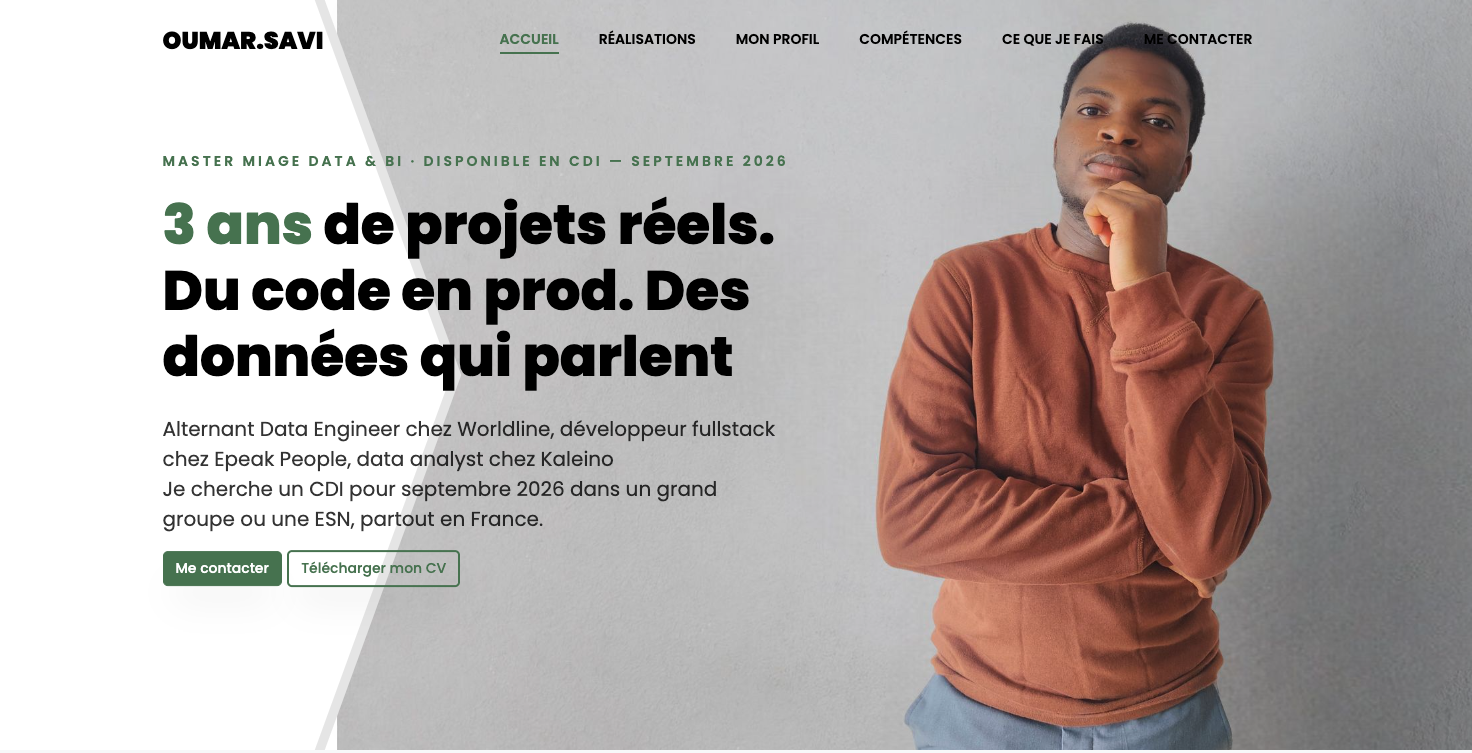
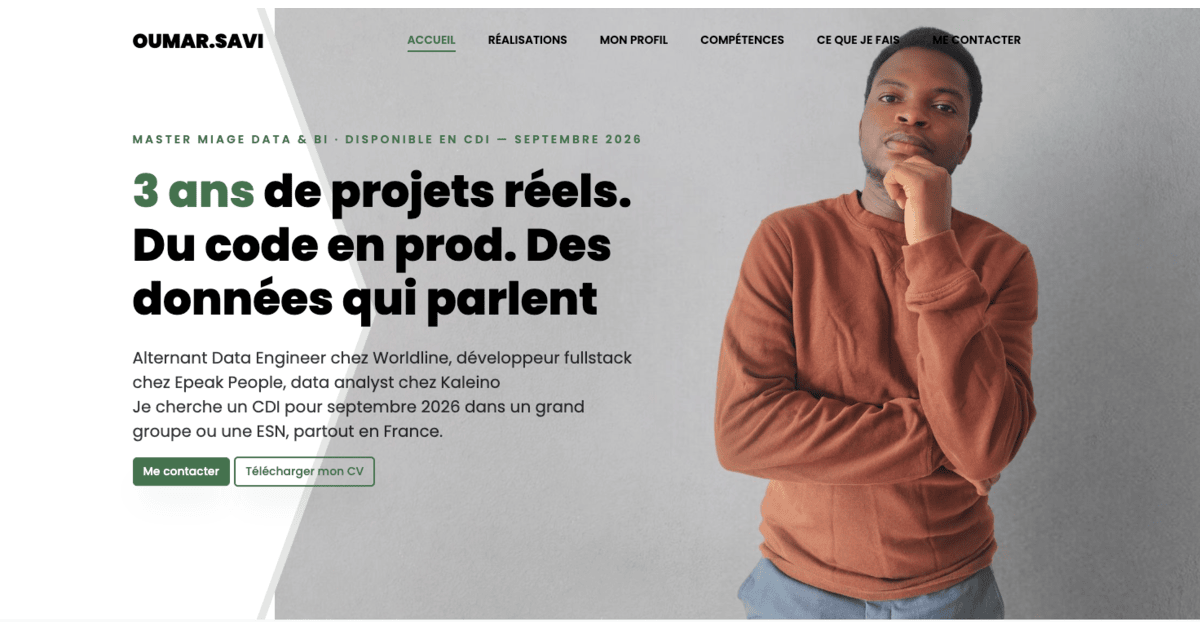
resize preview + seo langue et preview size

diff --git a/index.html b/index.html
@@ -1,5 +1,5 @@
 <!DOCTYPE html>
-<html lang="en">
+<html lang="fr">
 <head>
 	<title>Data Analyst & Developer - Portfolio</title>
 	<meta charset="utf-8">
@@ -29,6 +29,9 @@
 	<meta property="og:title" content="Oumar Savi - Data Engineer & Data Analyst">
 	<meta property="og:description" content="Je transforme les données en décisions. Dashboards, pipelines ETL et applications en production.">
 	<meta property="og:image" content="https://oumar9700.github.io/images/preview.png">
+	<meta property="og:image:width" content="1200">
+	<meta property="og:image:height" content="630">
+	<meta property="og:locale" content="fr_FR">
 	<meta property="og:url" content="https://oumar9700.github.io">
 	<meta property="og:type" content="website">
 
